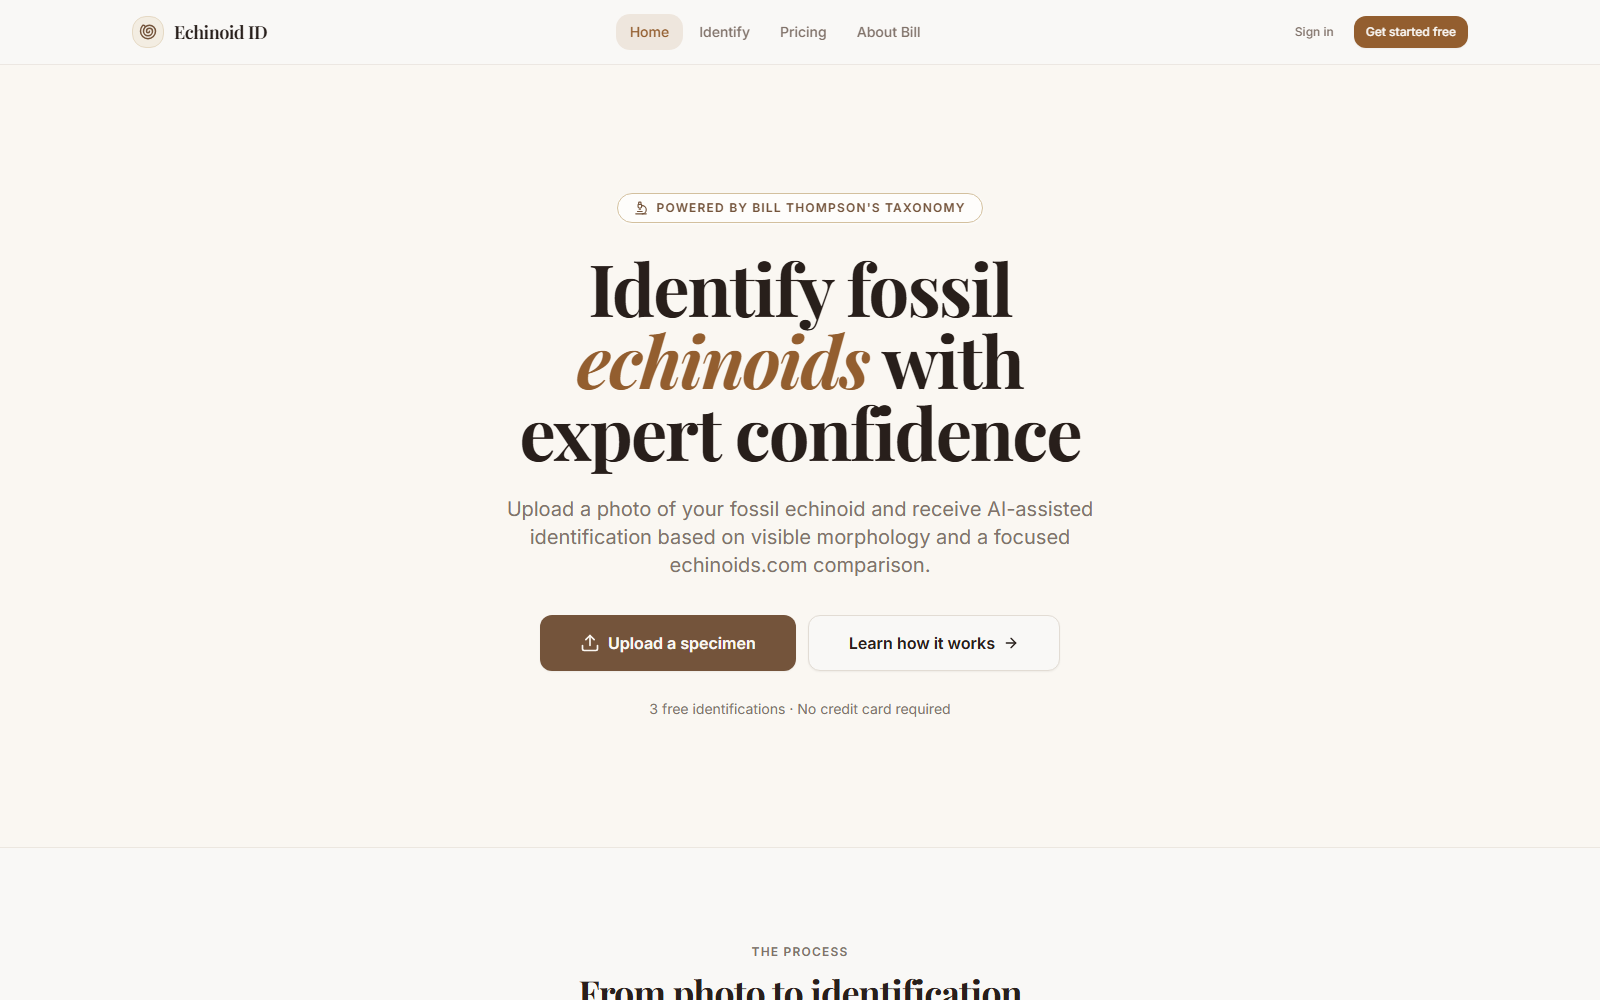
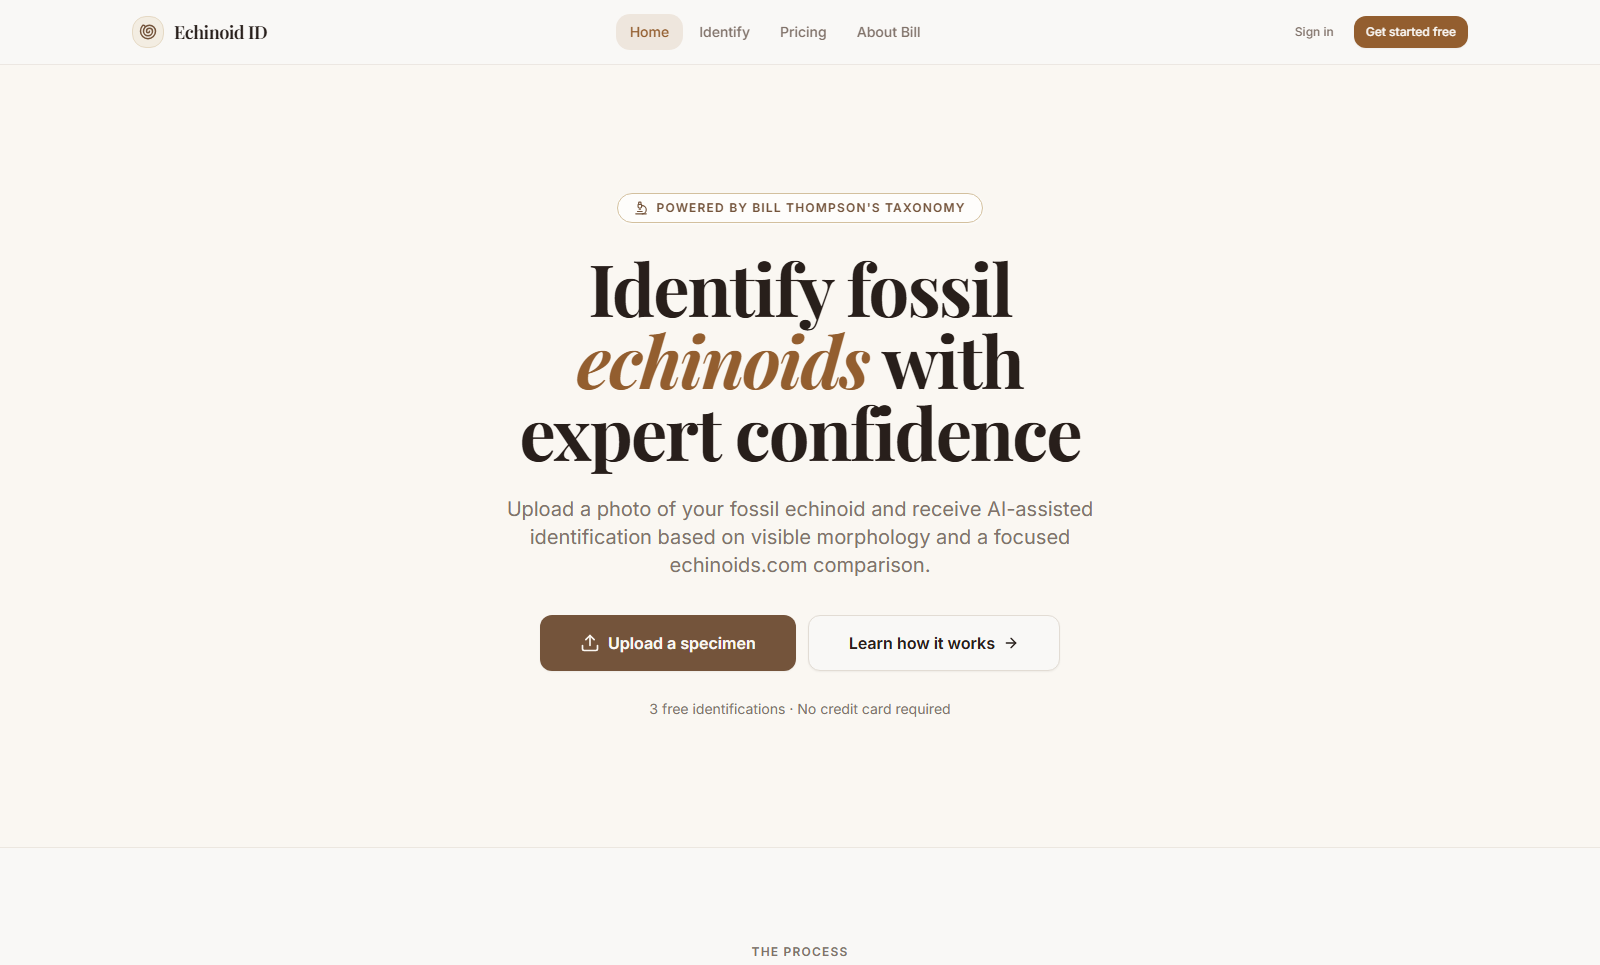
feat: card-image quality pass — every image legible at card size
trust-stack becomes a benefit-first capability grid (STOPS / ROUTES /
CHECKS / REMEMBERS + tagline, 34px titles that survive the 0.31x card
downscale). rag.png rebuilt as five big-label stages, fact-checked
against the actual pipeline code (which is hand-rolled FAISS — the old
LlamaIndex mention didn't survive the check). brain.png rebuilt from
the vault's real link graph (88 notes, 99 edges) with only the 7 hub
labels rendered large — the old 40-label version read as noise at card
size. fight/echinoid/pizza/drydock cropped to drop illegible chrome and
mid-glyph truncation; declared dims updated to match the real files.
Phone number, blimp skill list, and about-copy sync ride along in
content.ts.

Changed region(s): [[0.3125, 0.1865, 0.6875, 0.7461], [0.3438, 0.9326, 0.6562, 1.0], [0.8438, 0.0311, 0.9062, 0.0622]]

diff --git a/src/lib/content.ts b/src/lib/content.ts
@@ -19,6 +19,7 @@ export const site = {
   summary:
     "Applied AI student at UT Knoxville. I care most about the gap between what AI models can do and what actually gets deployed inside a real business — so I build products that close it, and ship them to real users.",
   email: "awalker200677@gmail.com",
+  phone: "228-357-2131",
   github: "https://github.com/Awalker77s",
   linkedin: "https://www.linkedin.com/in/alexander-walker-8b2694243",
 };
@@ -39,7 +40,7 @@ export const projects: Project[] = [
       "3,500+ automated tests, green — including an adversarial check that sensitive runs have no network rail reachable",
     ],
     stack: ["Electron", "TypeScript", "React", "Chrome MV3", "Windows UIA", "Ollama", "Claude Code"],
-    image: { src: "/projects/drydock.png", alt: "Drydock — automation run timeline with token and cost receipt", width: 1600, height: 1000 },
+    image: { src: "/projects/drydock.png", alt: "Drydock — automation run timeline with token and cost receipt", width: 2000, height: 1030 },
     note: "Private build — ask me for a walkthrough.",
   },
   {
@@ -57,7 +58,7 @@ export const projects: Project[] = [
     stack: ["Node", "Claude Code", "Hooks API", "Zero dependencies"],
     image: {
       src: "/projects/truststack.png",
-      alt: "Lane Console diagram of trust-stack: LOW, MED, and HIGH risk lanes pass through a dashed skills band (28 skills — policy the model reads) into a solid hooks wall (4 hooks — enforcement it cannot skip); LOW auto-merges, MED is allowed, HIGH trips a breaker and bends to human approval, with an append-only ledger rail on the right.",
+      alt: "trust-stack capability grid — STOPS: --no-verify becomes a question; ROUTES: low risk merges, high risk waits; CHECKS: catches bypasses humans miss; REMEMBERS: every decision permanently logged. Flight rules for AI coding agents.",
       width: 1600,
       height: 780,
     },
@@ -75,7 +76,7 @@ export const projects: Project[] = [
       "Loadout economy with an equip/store/workshop hub and a live 3D preview of every move you touch",
     ],
     stack: ["Next.js", "React", "TypeScript", "Three.js", "Tailwind", "Python (CV pipeline)"],
-    image: { src: "/projects/fight.png", alt: "FIGHT — Shadow League in-game bout with broadcast HUD", width: 1600, height: 1000 },
+    image: { src: "/projects/fight.png", alt: "FIGHT — Shadow League in-game bout with broadcast HUD", width: 1600, height: 880 },
     note: "Async tournaments are the next milestone.",
   },
   {
@@ -107,7 +108,7 @@ export const projects: Project[] = [
       "Refuses to answer when the sources don't contain it — no confident hallucination path",
     ],
     stack: ["Python", "PyMuPDF", "Tesseract", "Sentence-Transformers", "FAISS", "OpenAI", "Gradio"],
-    image: { src: "/projects/rag.png", alt: "Document Intelligence — six-stage RAG pipeline architecture", width: 1600, height: 1000 },
+    image: { src: "/projects/rag.png", alt: "Document Intelligence — five-stage RAG pipeline: ingest, chunk, embed, retrieve, generate", width: 1600, height: 1000 },
     repoUrl: "https://github.com/Awalker77s/Document-Intelligence-Pipeline",
   },
   {
@@ -123,7 +124,7 @@ export const projects: Project[] = [
       "The graph you're looking at is the real vault, rendered from its actual wikilinks",
     ],
     stack: ["Obsidian", "Markdown", "Git", "Claude Code"],
-    image: { src: "/projects/brain.png", alt: "Brain — force-directed graph of the real Obsidian vault", width: 1600, height: 1000 },
+    image: { src: "/projects/brain.png", alt: "Brain — force-directed graph of the real vault: 88 notes, 99 links, hubs labeled (Home, Machines, Memory protocol)", width: 1600, height: 1000 },
   },
   {
     name: "Echinoid ID",
@@ -138,7 +139,7 @@ export const projects: Project[] = [
       "3 free IDs, then Stripe-billed Pro",
     ],
     stack: ["TypeScript", "React", "Supabase", "Edge Functions", "OpenAI", "Stripe"],
-    image: { src: "/projects/echinoid.png", alt: "Echinoid ID — fossil identification interface", width: 1600, height: 1000 },
+    image: { src: "/projects/echinoid.png", alt: "Echinoid ID — fossil identification interface", width: 1600, height: 965 },
     liveUrl: "https://echinoid-ui.vercel.app",
   },
   {
@@ -153,7 +154,7 @@ export const projects: Project[] = [
       "Dual-mode data layer — Supabase in production, localStorage for local dev",
     ],
     stack: ["React", "Vite", "Tailwind", "Supabase", "Resend", "Vercel"],
-    image: { src: "/projects/pizza.png", alt: "Mother Truckin' Pizza — menu page", width: 1600, height: 1000 },
+    image: { src: "/projects/pizza.png", alt: "Mother Truckin' Pizza — menu page", width: 1600, height: 765 },
     liveUrl: "https://mother-truckin-pizza.vercel.app",
   },
 ];
@@ -212,8 +213,33 @@ export const skillGroups = [
   },
 ];
 
+// Short labels for the sky blimps' screens — one skill per crossing. Kept
+// under ~19 chars so the baked screen text stays legible; the long-form
+// versions live in skillGroups.
+export const blimpSkills = [
+  "Multi-agent design",
+  "Claude Code",
+  "Orchestration",
+  "Eval harnesses",
+  "Adversarial testing",
+  "Guardrails & HITL",
+  "Context engineering",
+  "RAG pipelines",
+  "OCR pipelines",
+  "Prompt design",
+  "TypeScript",
+  "React / Next.js",
+  "Python",
+  "Node",
+  "Electron",
+  "Three.js",
+  "Supabase",
+  "PostgreSQL",
+  "MCP",
+];
+
 export const about = [
   "I'm an Applied AI student at UT Knoxville, after completing the computer science core at UCF. Most of my time goes into building with AI agents — multi-agent systems, orchestration, and the trust layers that make their output safe to ship. Everything on this page is a real build: live users, a real paying client, real captured footage, real test suites.",
   "The thread through all of it is verification. \"The demo worked\" doesn't convince me — I want evals with blinded graders, guardrails that fail closed, evidence ledgers that can't be faked, and honest numbers even when they're unflattering. The gap between what a model can do and what a business will actually deploy is exactly the gap those things close.",
-  "This site is part of the portfolio too. The rain, the city, and the water are a custom canvas engine — a spring-column water surface with real ripple physics — and the soundtrack is synthesized live in the Web Audio API: a bright lofi bed at the surface that crossfades into open-fifth deep-water pads as you scroll into the descent. No animation libraries, no audio files.",
+  "This site is part of the portfolio too. The rain, the city, and the water are a custom canvas engine — a spring-column water surface with real ripple physics — and the soundtrack is synthesized live in the Web Audio API: a bright bed at the surface that crossfades into a swung lofi beat under warm pads once you dive, with a synthesized splash at the waterline. No animation libraries, no audio files.",
 ];
